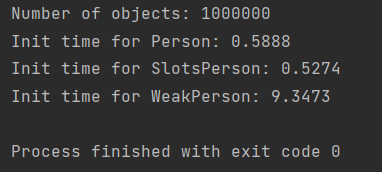
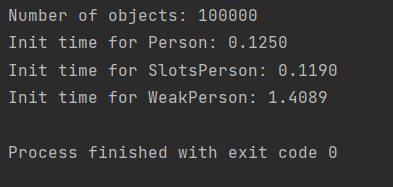
Task2

diff --git a/08/task1/init_test.py b/08/task1/init_test.py
@@ -4,28 +4,26 @@ from slots_person import SlotsPerson
 from weak_person import WeakPerson
 
 
-N = 1_000_000
+N = 100_000
 print(f"Number of objects: {N}")
 
+
 start = time.time()
-for i in range(N):
-    Person(30, 180, 'teacher')
+persons = [Person(30, 180, 'teacher') for i in range(N)]
 end = time.time()
 
 print(f"Init time for Person: {end - start:.4f}")
 
 
 start = time.time()
-for i in range(N):
-    SlotsPerson(30, 180, 'teacher')
+persons = [SlotsPerson(30, 180, 'teacher') for i in range(N)]
 end = time.time()
 
 print(f"Init time for SlotsPerson: {end - start:.4f}")
 
 
 start = time.time()
-for i in range(N):
-    WeakPerson(30, 180, 'teacher')
+persons = [WeakPerson(30, 180, 'teacher') for i in range(N)]
 end = time.time()
 
 print(f"Init time for WeakPerson: {end - start:.4f}")

diff --git a/08/task2/profiling.py b/08/task2/profiling.py
@@ -1,0 +1,33 @@
+from memory_profiler import profile
+from task1.person import Person
+from task1.slots_person import SlotsPerson
+from task1.weak_person import WeakPerson
+
+
+@profile
+def run_person(n):
+    persons = [Person(30, 180, 'teacher') for i in range(n)]
+    for person in persons:
+        person.age = 40
+
+
+@profile
+def run_slots_person(n):
+    persons = [SlotsPerson(30, 180, 'teacher') for i in range(n)]
+    for person in persons:
+        person.age = 40
+
+
+@profile
+def run_weak_person(n):
+    persons = [WeakPerson(30, 180, 'teacher') for i in range(n)]
+    for person in persons:
+        person.age = 40
+
+
+if __name__ == "__main__":
+    n = 100_000
+    print(f"number of objects: {n}")
+    run_person(n)
+    run_slots_person(n)
+    run_weak_person(n)

diff --git a/08/task1/change_test.py b/08/task1/change_test.py
@@ -4,7 +4,7 @@ from weak_person import WeakPerson
 import time
 
 
-N = 1_000_000
+N = 100_000
 print(f"Number of objects: {N}")
 
 # Person

diff --git a/08/report.md b/08/report.md
@@ -1,5 +1,6 @@
-### Задание 1
 
+
+### Задание 1
 1. Создание экземпляров
 ![img.png](images/img.png)
 
@@ -11,4 +12,8 @@
 поэтому времени требуется намного больше.
 
 Такая же проблема и при изменении атрибутов: у класса WeakPerson изменение собственного атрибута ведет к
-изменению атрибута объекта класса, на который ведет weakref.
+изменению атрибута объект класса, на который ведет weakref.
+
+
+### Задание 2
+![img.png](images/img3.png)
